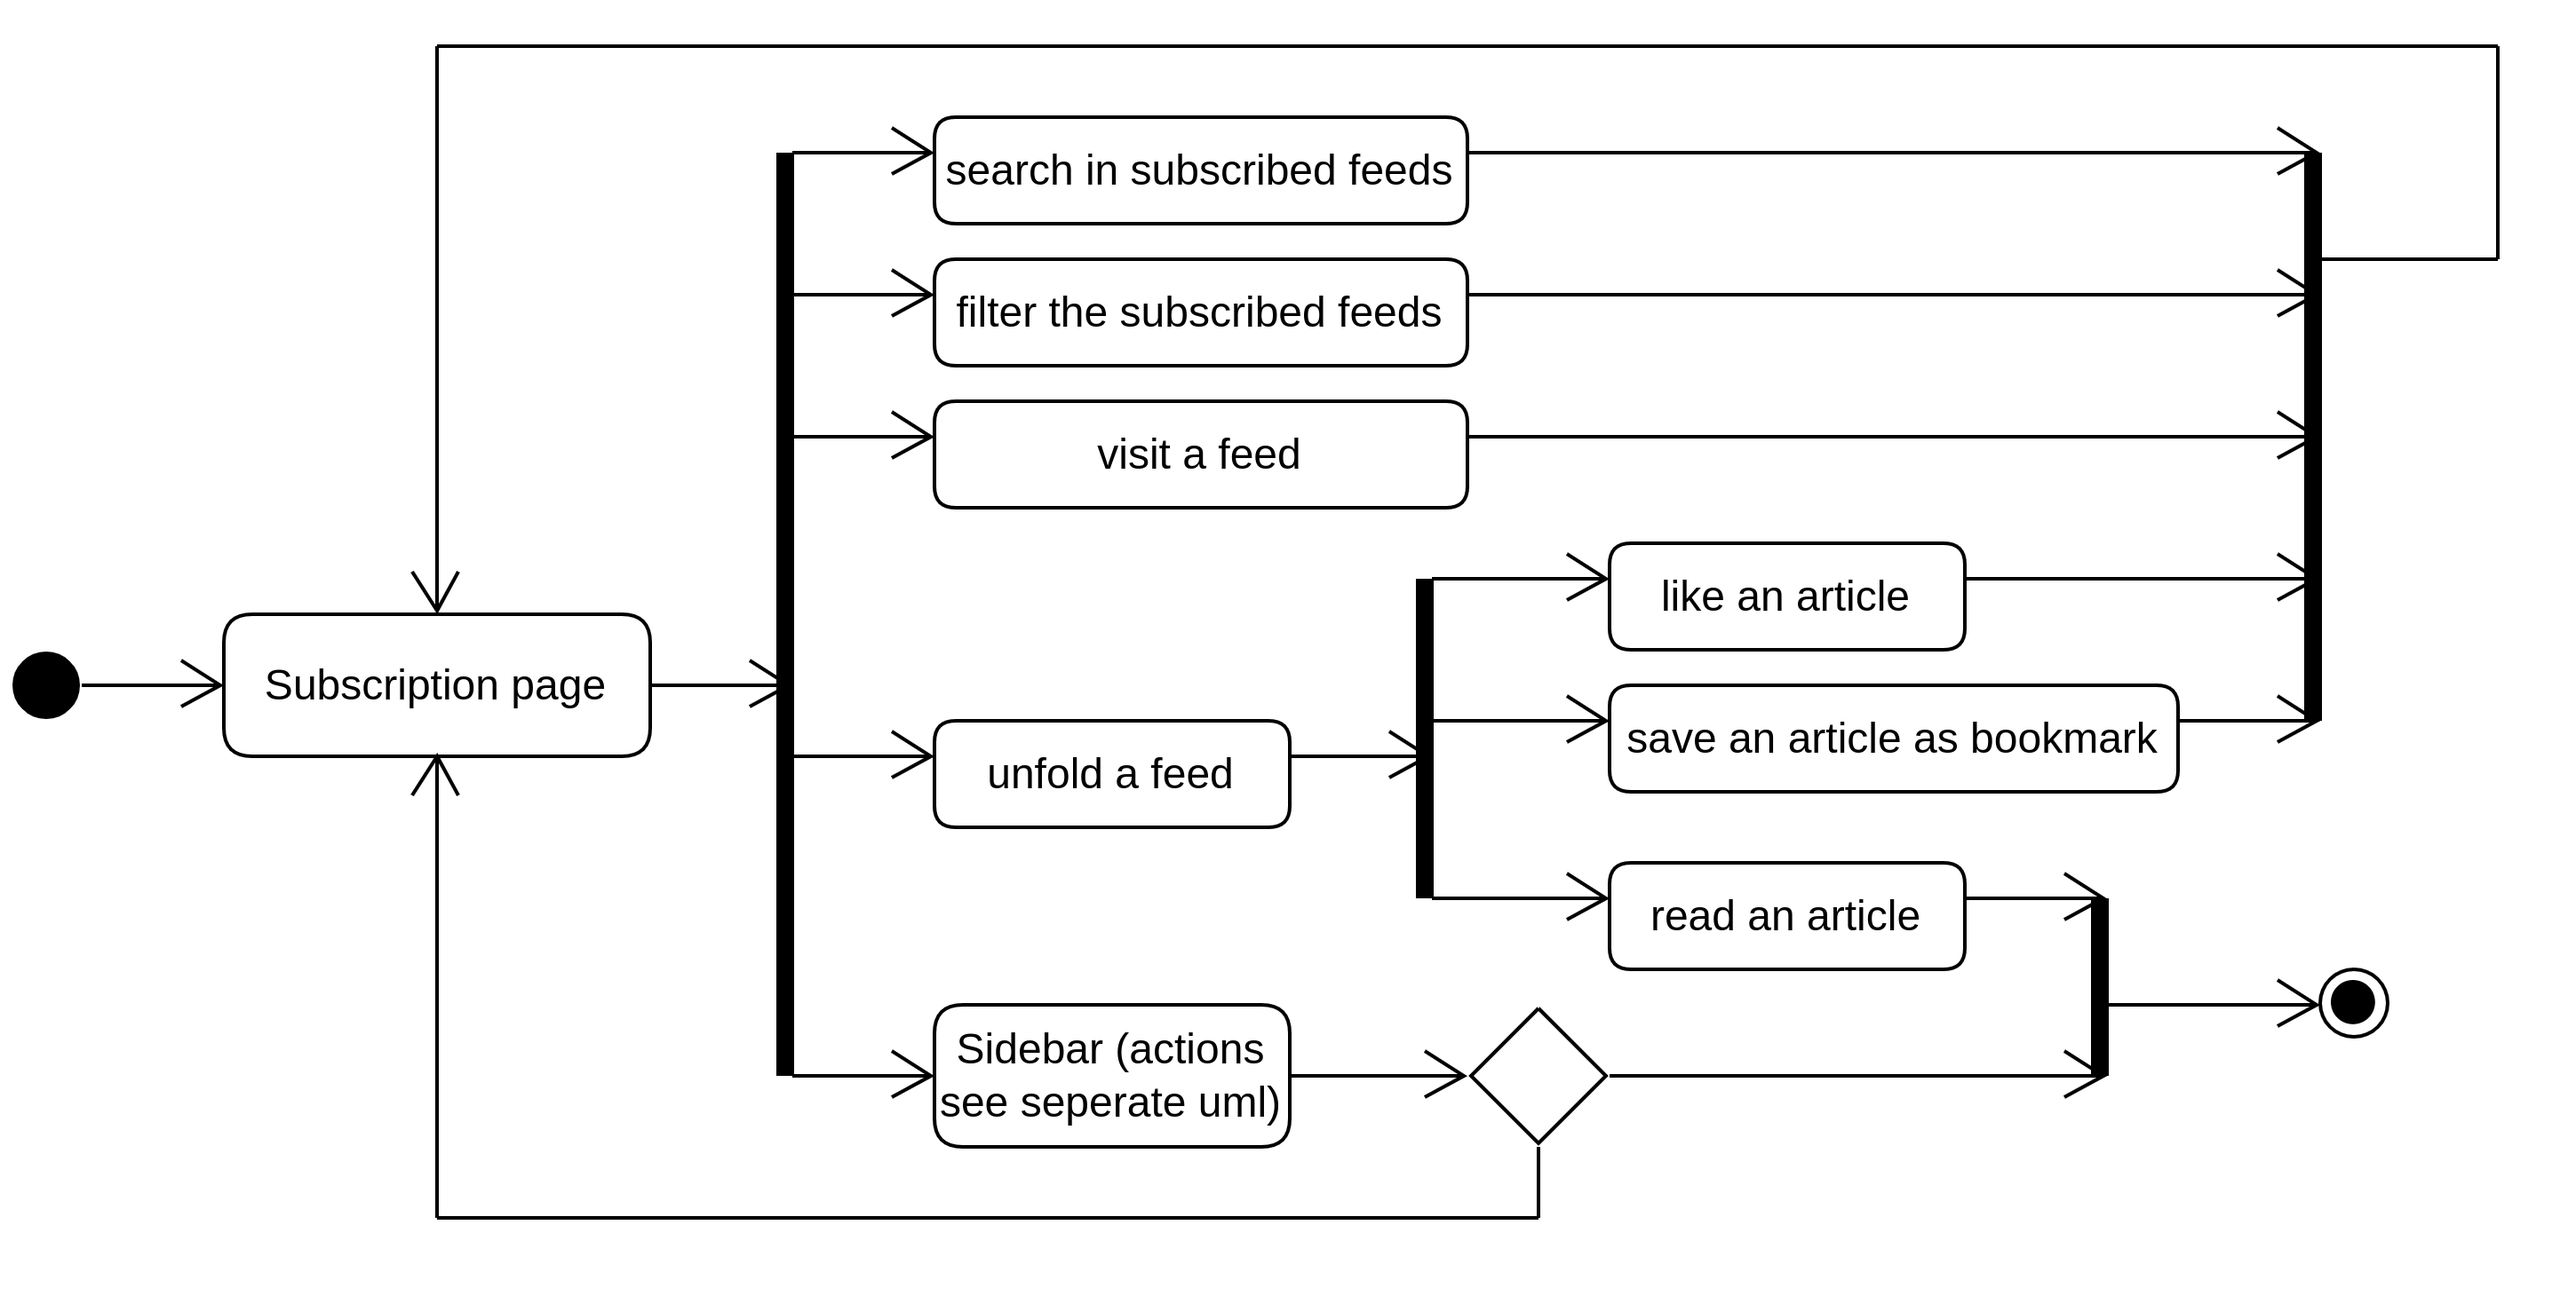
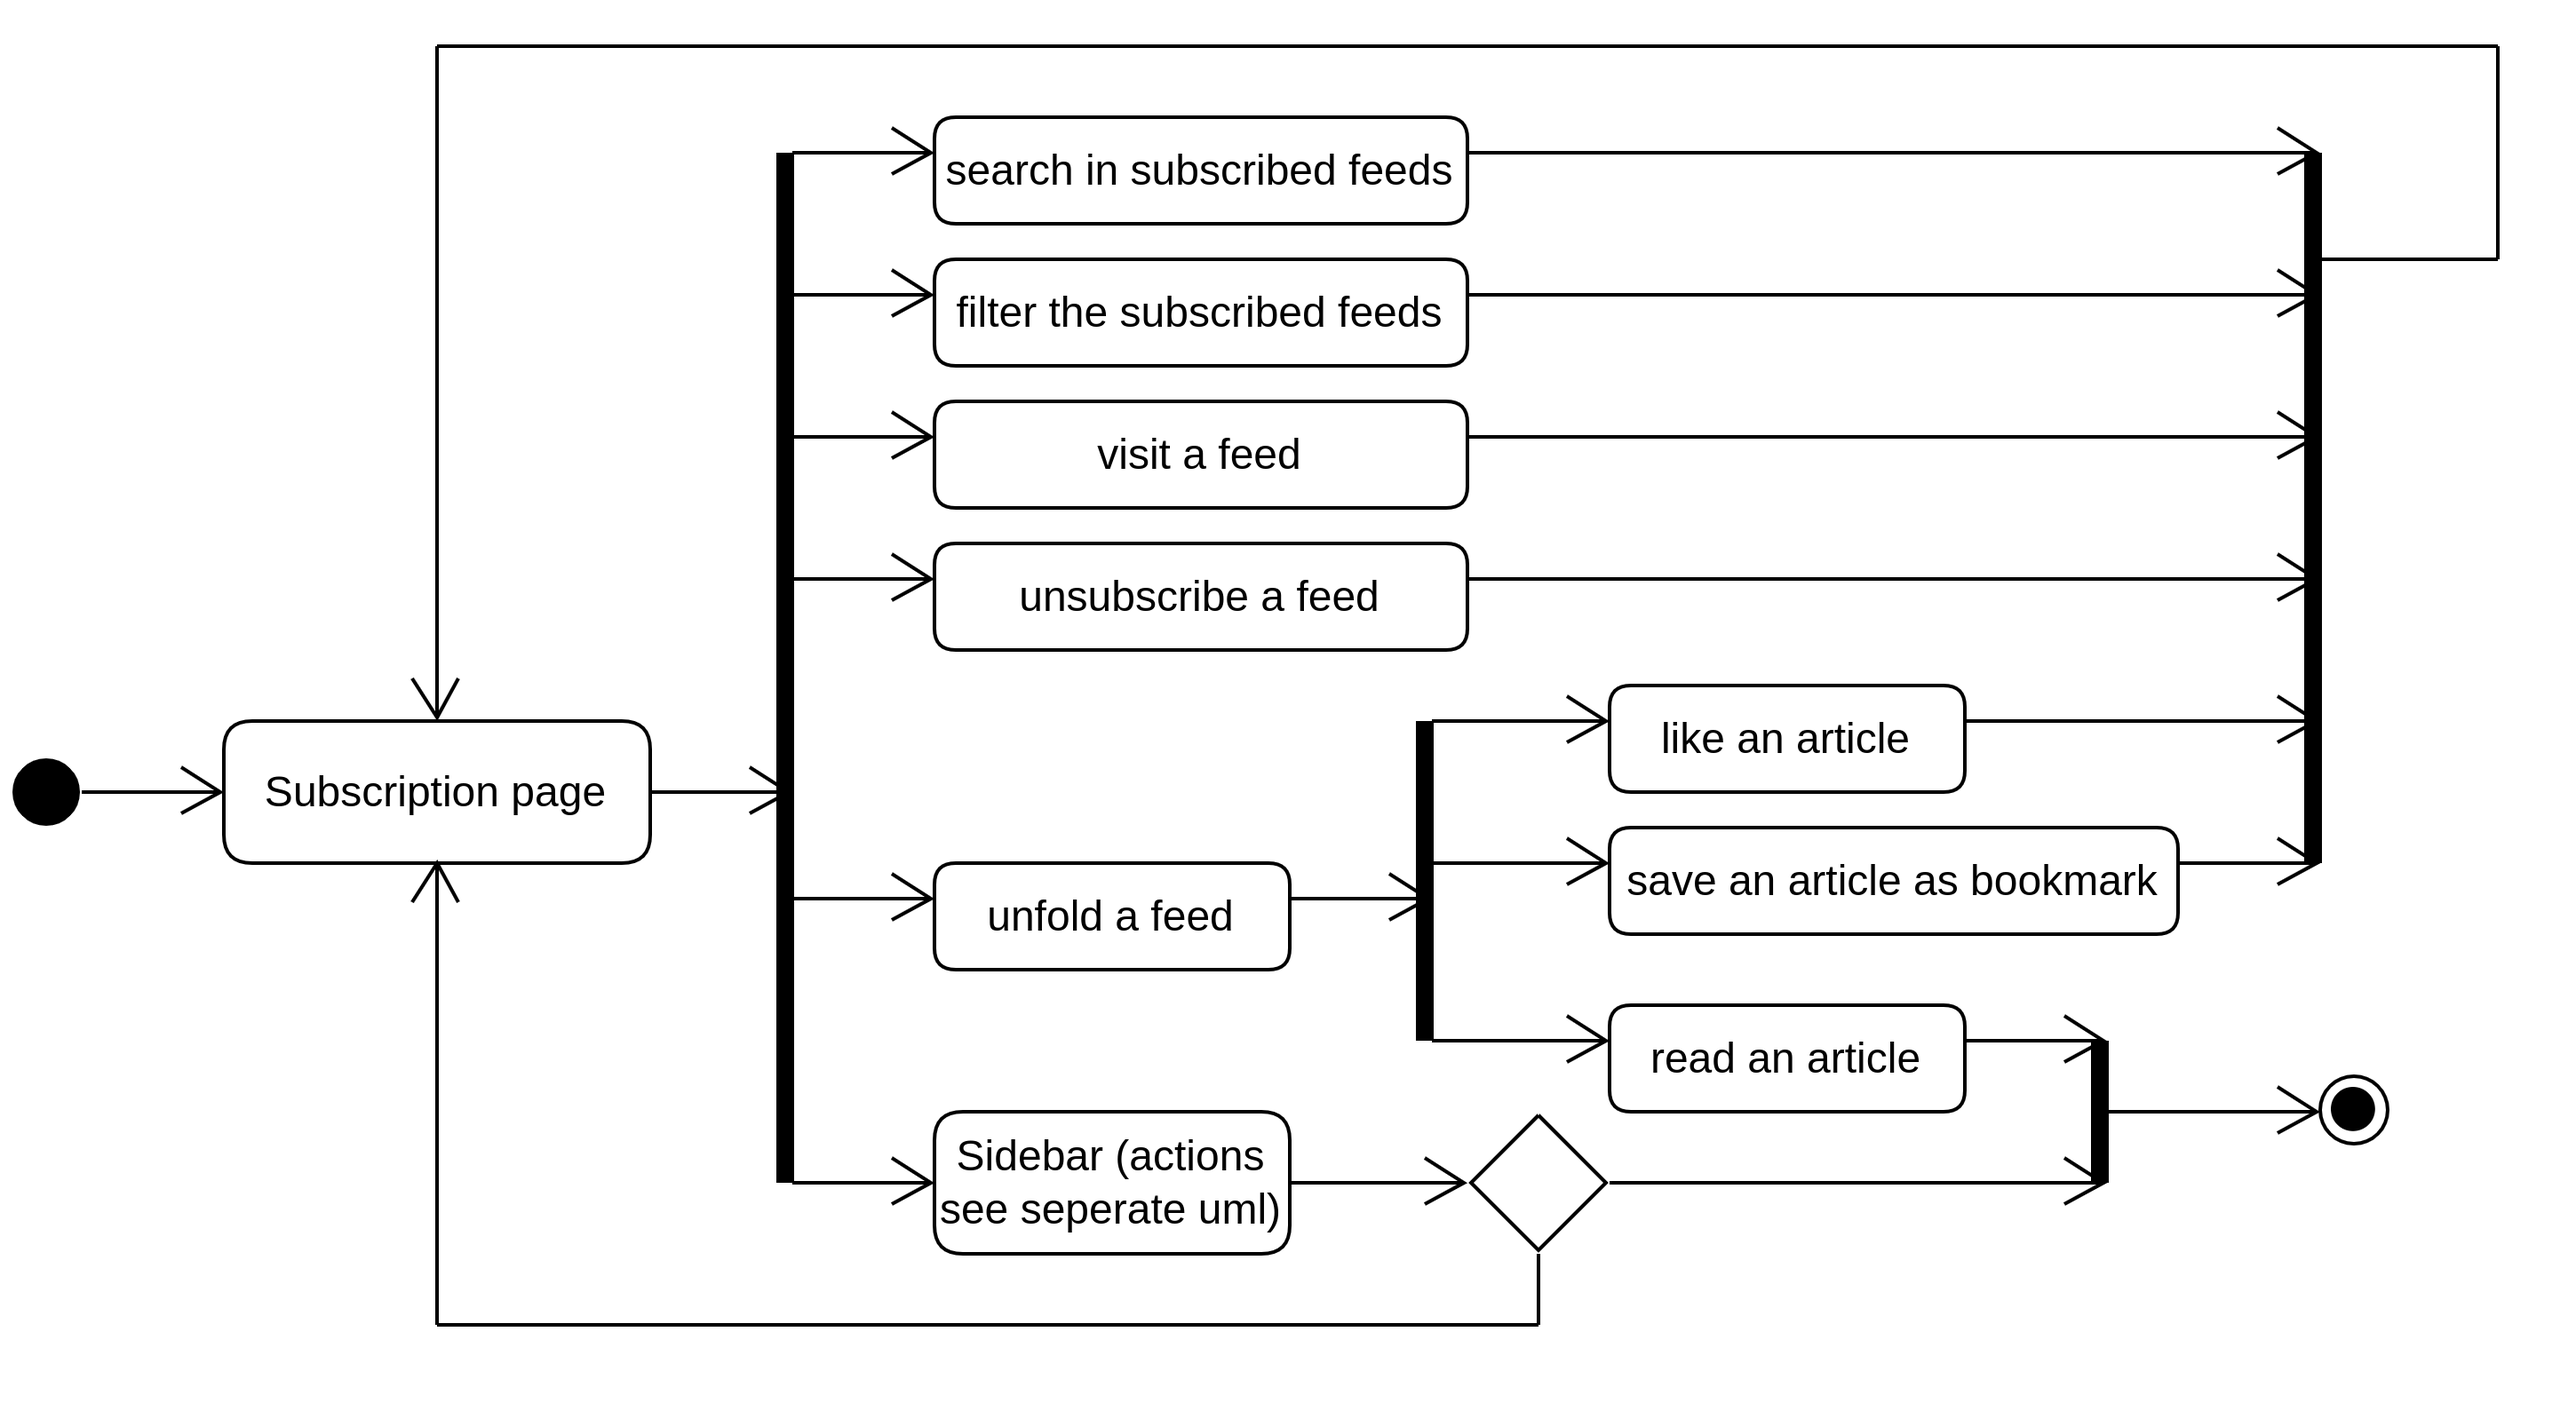
Subscription-page wie mockup korrigiert

diff --git a/content/05kapitel.tex b/content/05kapitel.tex
@@ -395,7 +395,8 @@ Einzelne Artikel können aus den Lesezeichen gelöscht werden. Auch können einz
 \end{figure}
 
 Die Aktivitäten der Abonnementsseite werden in Abbildung~\ref{fig:umlActivitySubscription.png} abgebildet.
-Die Abonnements können gefiltert und/oder durchsucht werden. Jeder abonnierte Feed per Klick auf diesen aufgerufen werden.
+Die Abonnements können gefiltert und/oder durchsucht werden. Jeder Feed kann direkt deabonniert werden.
+Jeder abonnierte Feed kann per Klick auf diesen aufgerufen werden.
 Ein Feed kann ausgeklappt werden und die 10 aktuellsten Artikel werden angezeigt.
 Die gezeigten einzelnen Artikel geliked oder als Lesezeichen gespeichert werden.
 
